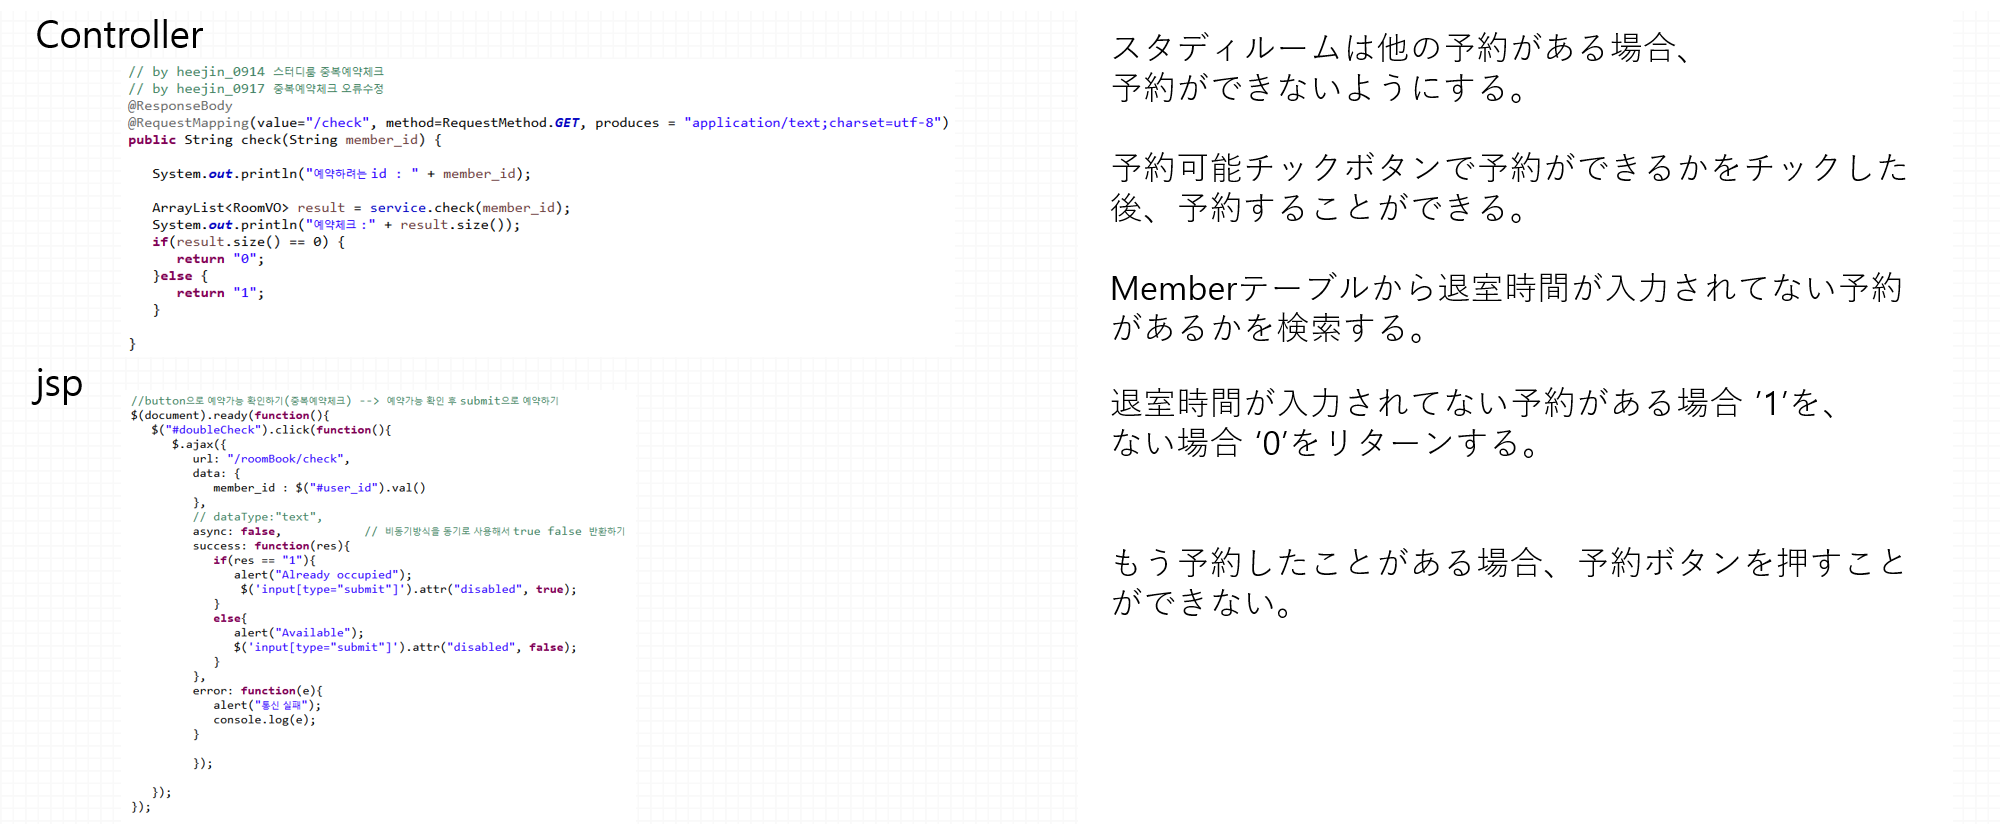
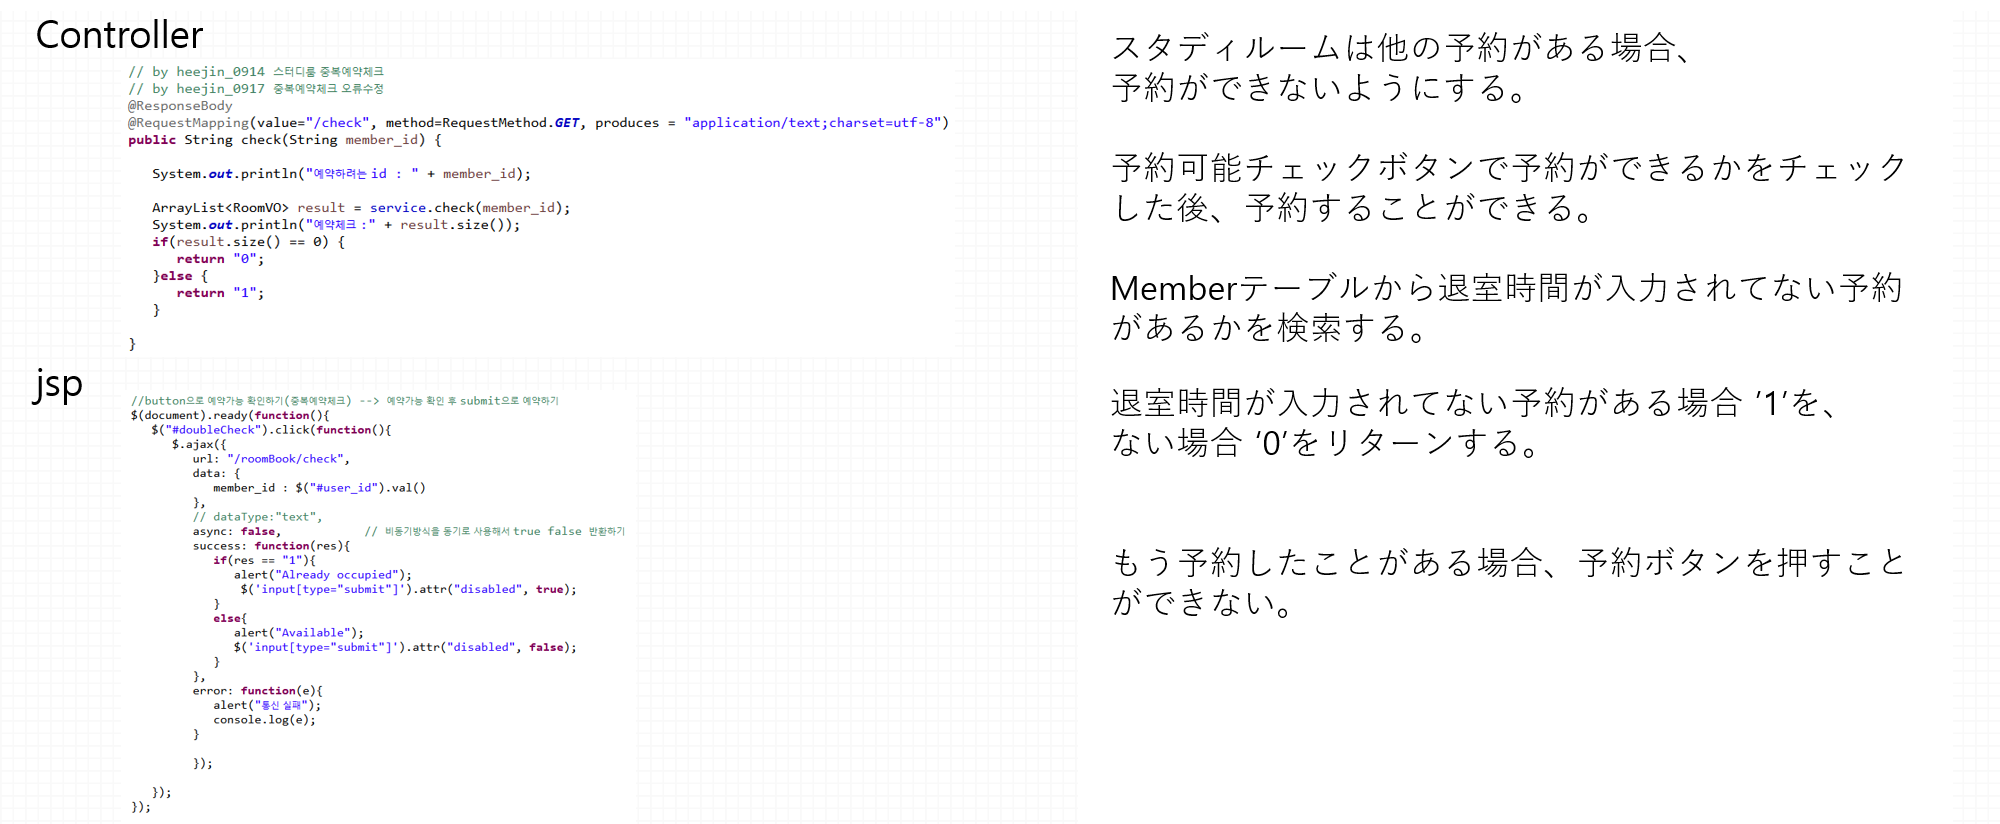
Style : edit typing error

Changed region(s): [[0.558, 0.182, 0.961, 0.2731]]

diff --git a/WebContent/teamProject.html b/WebContent/teamProject.html
@@ -111,7 +111,7 @@
 								<p>4. code</p>
 								<p>4.1 予約可能時間確認</p>
 								<span class="image featured"><img src="images/code1.png" alt="" /></span>
-								<p>4.2 予約可能チック</p>
+								<p>4.2 予約可能チェック</p>
 								<span class="image featured"><img src="images/code2.png" alt="" /></span>
 								<p>4.3 paging</p>
 								<span class="image featured"><img src="images/code3.png" alt="" /></span>

diff --git a/WebContent/main.html b/WebContent/main.html
@@ -119,7 +119,7 @@
 								<footer>
 									<ul class="actions">
 										<!-- <li><a href="single.html" class="button big">Continue Reading</a></li> -->
-										<li><a href="single.html" class="button big">Continue Reading</a></li>
+										<li><a class="button big">preparing the project</a></li> <!-- 개인프로젝트 페이지 연결 -->
 									</ul>
 								</footer>
 							</article>
